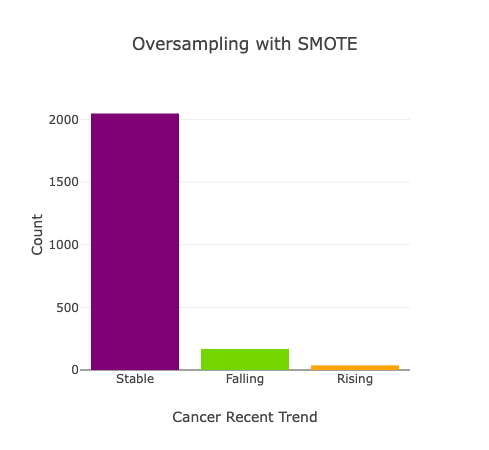
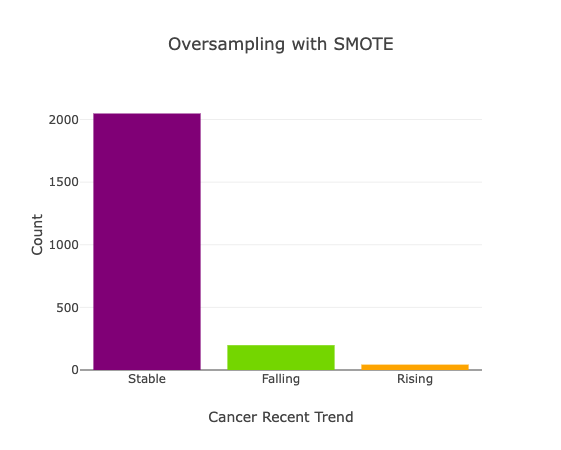
Added new image and modified README.md

diff --git a/README.md b/README.md
@@ -19,9 +19,7 @@ We also used a Kaggle dataset [Cancer Mortality & Incidence Rates: (Country LVL)
 
 ### Objective
 <hr>
-The main goal was to develop a machine learning algorithm to predict cancer associated with environmental pollutants. 
-
-The following questions helped us with our intial analysis. 
+The main goal was to develop a machine learning algorithm to predict cancer associated with environmental pollutants. The following questions helped us with our intial analysis. 
 
 - Do the levels of air particulate matter affect the number of cancer instances in the United States?
 
@@ -82,7 +80,7 @@ For our EDA and ETL, we performed the following:
 - Used a cloud service, ElephantSQL, to save the merged DataFrame into a PostgreSQL database using PySpark 
 
 <hr>
-<a href="SQL"></a>
+<a href="SQL"></a><BR>
 
 <h3> SQL Database  </h3>
 
@@ -99,7 +97,10 @@ Prediction_model_dataset: used to test the model
 The goal of the Machine Learning Model was to ingest the inputs of all counties IDs/FIPS along with the maximum, minimum, and mean values for both air pollutants (PM2.5) and Ozone (ppb) and the cancer incidence trends associated for years 2000-2014. The model was trained to predict cancer incidence trends with a our model dataset. We also created a new data set to predict and output future trends of cancer incidence for each county. The selection of a machine learning model was based on several factors. We selected a supervised machine learning model because the input data was labeled. We elminated binary classification models because the dataset containd three different labels so the best fit for our data was a trinary classification. Support Vector Machine (SVM) was also considered because of its ability to analyze the data and label the proper class but was outperformed by Balanced Random Forest.
 
 <BR>
+
 The “recent trend” column in the dataset has a “stable”, “falling” or “rising” cancer incidence rate for each county. This column became our target variable. Test and train data were split using test_train_split, stratified on the Y axis.  The training data was then resampled with SMOTE to correct for the imbalanced classes. The SMOTE algorithm increased the data by creating synthetic data points based on the original data. 
+
+<BR>
 
 ![Image_name](Resources/train_test_split.png)
 
@@ -108,11 +109,13 @@ The “recent trend” column in the dataset has a “stable”, “falling” o
 The advantage of SMOTE is that we are creating slightly different data points rather than producing copies, thus providing variety, balance, and quality in data. After resampling our dataset, we chose a Balanced Random Forest Classifier. This learning model was a good choice for our data due to the imbalanced classes.  A Balanced Random Forest Classifier is not biased toward a majority class, giving importance to all classes, and delivering a balanced accuracy. Our machine learning model was created using 100 n_estimators.
 Intially, this model performed extremely well. However, due to an error in between the ETL and model development stages caused a duplication of the dataset. The error resulted in a model that initially gave an accuracy of more than 90%. This error was not caught and fixed until late in the project development process so after fixing our data duplication this model gave an accuracy of 37%
 
+<BR>
+
 ![Image_name](Resources/SMOTE_resampling.png)
 
 <BR>
 <h4> Cluster Centroid Algorithm </h4>
-After the previous setback, a new machine learning model was created after the completion of the project. A Cluster Centroid Algorithm was applied for resampling the data. One advantage of Cluster Centroid is that we use actual data. The data is undersampled by clustering datapoints using the euclidian distance, that is the shortest distance between two points. The undersampled datapoints are classified into better-defined clusters, which makes the data less vulnerable to outliers. However, not having sufficient data could be problematic when usign Cluster Centroid Algorithm. 
+After the previous setback, a new machine learning model was created after the completion of the project. A Cluster Centroid Algorithm was applied to undersample the data. One advantage of Cluster Centroid is that we use actual data instead of creating new data. The data is undersampled by clustering datapoints using the euclidian distance, that is the shortest distance between two points. The undersampled datapoints are classified into better-defined clusters, which makes the data less vulnerable to outliers. However, not having sufficient data could be problematic when usign Cluster Centroid Algorithm. 
 
 <BR>
 
@@ -133,26 +136,34 @@ Looking at the classification imbalanced report we can see that the geometric  m
 
  ## Machine Learning Visualizations and Results
  
+ The following bar charts show the cancer recent trend count before and after resampling with the SMOTE algorithm. We can see that the  *falling* and *rising* classes have only a few datapoints before resampling. After applying SMOTE algorithm all classes now have 1807 datapoints each. 
   
 ![Image_name](Resources/bar_smote.png)
 
 ![Image_name](Resources/bar_smote_after.png)
 
+After resampling we applied a balanced random forest classifier. This model is the best fit for imalanced data because it's not biased towards the majority class. In this case this model was not going to be ovelooking the *falling* and *rising* classes
+
+The following image shows one of the random forest created with our machine learning model. The model used 100 n_estimators that means that 100 trees were created. Having enough decision trees makes a model stronger and more stable.
+
+![Image_name](Resources/tree_SMOTE.png)
+
+This graph shows the decison tree making process which is essentially a series of questions designed to assign a classification. In this case, an example of a question that can be asked is the following: **Is maximum ozone prediction less than or equal to 75 ppb?** If the answer is yes, then it will classify it as *stable*, if the answer is no then it keeps asking questions so it can assing classes.  
+
+<BR>
+
+As we can see in the image bellow, the confusion matrix generated using the SMOTE algorithm still favors the majority class, classifying around 90% of the *stable* class accurately, and only 20% of the *falling* class, and none of the rising.
+
 ![Image_name](Resources/cm_smote.png)
+
+After applying the cluster centroid algorithm the datapoints were undersampled to 37 datapoints for each class. This improved the overall balanced accuracy from 37% to 51%. We can observe in the image below that the minority classes are not being ignored and all classes have 50% accuracy each. 
 
 ![Image_name](Resources/cm_cc.png)
 
-![Image_name](Resources/tree_SMOTE.png)
-  
-Though the model itself was not reliable, within the model it is clear ozone was more impactful than PM 2.5
-The year 2006 also appeared to be the most impactful year, followed by 2009.
-The chart represents years 7 and 9 of the 15 year time slice  
+By looking at the feature importances we can see that within the model it was clear that ozone was more impactful than PM 2.5
+The year 2006 also appeared to be the most impactful year, followed by 2009. 
+![Image_name](Resources/feature_importances_smote.png)
 
-[Interactive Map: Cancer Incidence Rates by County](https://katiarp.github.io/visualization_map)
-
-![Image_name](Resources/visualization_map.png)
-  
-The code for the interactive map can be found in this [repository](https://github.com/katiarp/visualization_map)
 
 
 <BR>
@@ -161,36 +172,46 @@ The code for the interactive map can be found in this [repository](https://githu
  
  <a name="dash"></a><BR> 
  
-## Interactive Dashboard 
+## Interactive Dashboard and Map
 
 <BR>
 
-A new [Dashboard](https://katiarp.github.io/Cancer_Incidence_Dashboard/) was developped to better visualize the data. This web application allows you to observe scatterplats scatterplots that show the preliminary analysis of the pollution and ozone data, a sample of our model dataset, interactive charts and the interactive map showing our results and predictions. 
+A new [Dashboard](https://katiarp.github.io/Cancer_Incidence_Dashboard/) was developed to better visualize the data. This web application allows you to observe scatterplots that show the preliminary analysis of the pollution and ozone data, a sample of our model dataset, interactive charts, and the interactive map showing our results and predictions. 
 
 ![Image_name](Resources/interactive_dashboard.png)
 
 The code for this dashboard can be found in this [repository](https://github.com/katiarp/Cancer_Incidence_Dashboard)
- 
 
+This interactive map was created to display the actual trend from our dataset and the results of our model. The model was then applied to a different 15-year time slice from 2003 to 2016 predicting cancer incidence rates for counties where this data was non-existent. The map displays actual trend, model prediction, and future trend layers and allows you to turn them on or off.
+
+[Interactive Map: Cancer Incidence Rates by County](https://katiarp.github.io/visualization_map)
+
+![Image_name](Resources/visualization_map.png)
+  
+The code for the interactive map can be found in this [repository](https://github.com/katiarp/visualization_map)
 <a href="#TOC">Table of Contents
 
 <HR>  
 
 <a name="chall"></a><BR>  
 
-<h2>Challenges and Strenghts</h2>  
+<h2>Challenges and Strenghts</h2> 
 
+The team took real risks using untested data. Separate datasets with several million rows each were aggregated and combined to form one cohesive model dataset. The current model’s accuracy can be improved as more data is released by the CDC and other agencies. For instance, we know that studies have shown a correlation between pollution and cancer; however, it's possible that we need to gather more data to improve the model's performance. 
+
+The team put together an interesting project with strong engineering behind it. The creation of a web application to visualize the predictions of future machine learning models is a great tool to explore the data and the results of our analysis. We also gained invaluable expertise in how to handle projects with real data instead of a curated dataset.
+
+
+<BR><BR>
   
 
 <a href="#TOC">Table of Contents
   
 <hr>
- <a name="ahead"></a><BR>  
+<a name="ahead"></a><BR>  
 <h2>Looking ahead</h2>  
 
-What it is and what it could be
-
-The current model’s accuracy can be improved as more data is released by the CDC and the National Cancer Institute, but as a preliminary tool to predict cancer incidence given pollution and ozone factors looks promising. Once accuracy is improved, stakeholders could use the map visualization to see which counties could be at risk of a rising cancer incidence in the future and act now as opposed to acting when the problem is already present. For example, counties could start investigating if there are already environmental situations that are raising pollution levels and allocate resources for cancer research and infrastructure.
+As a preliminary tool, this web application and model to predict cancer incidence looks promising. Once accuracy is improved, stakeholders could use the map visualization to see which counties could be at risk and take action. For example, counties could investigate the environmental causes contributing to raising cancer incidences and allocate resources for mitigation. Future versions of this model and web application could include the prediction of other illnesses associated with environmental pollutants. 
  
 
 <BR><a href="#TOC">Table of Contents
@@ -212,15 +233,17 @@ The current model’s accuracy can be improved as more data is released by the C
 
 
 <BR><BR>
-<HR>
+
 
 <a name="sources">
  
+ ## Sources
 
- <a href="https://data.cdc.gov/Environmental-Health-Toxicology/Daily-County-Level-Ozone-Concentrations-2001-2016/kmf5-t9yc">County-Level Ozone, All Years</a>
-<BR>
-<a href="https://https://www.kaggle.com/datasets/thedevastator/us-county-level-cancer-mortality-and-incidence-r?resource=download>Cancer Mortality & Incidence Rates</a>
-<BR>
-<a href= "https://data.cdc.gov/Environmental-Health-Toxicology/Daily-PM2-5-Concentrations-All-County-2001-2016/7vdq-ztk9">Daily PM2.5 Concentrations, All Counties</a>
+[Daily PM2.5 Concentrations All County, 2001-2016](https://data.cdc.gov/Environmental-Health-Toxicology/Daily-PM2-5-Concentrations-All-County-2001-2016/7vdq-ztk9)
+
+[Daily County-Level Ozone Concentrations, 2001-2016](https://data.cdc.gov/Environmental-Health-Toxicology/Daily-County-Level-Ozone-Concentrations-2001-2016/kmf5-t9yc)
+
+[Cancer Mortality & Incidence Rates: (Country LVL)](https://www.kaggle.com/datasets/thedevastator/us-county-level-cancer-mortality-and-incidence-r?resource=download)
+ 
 <BR>     
 <a href="#backup"> Top of page</a> 
